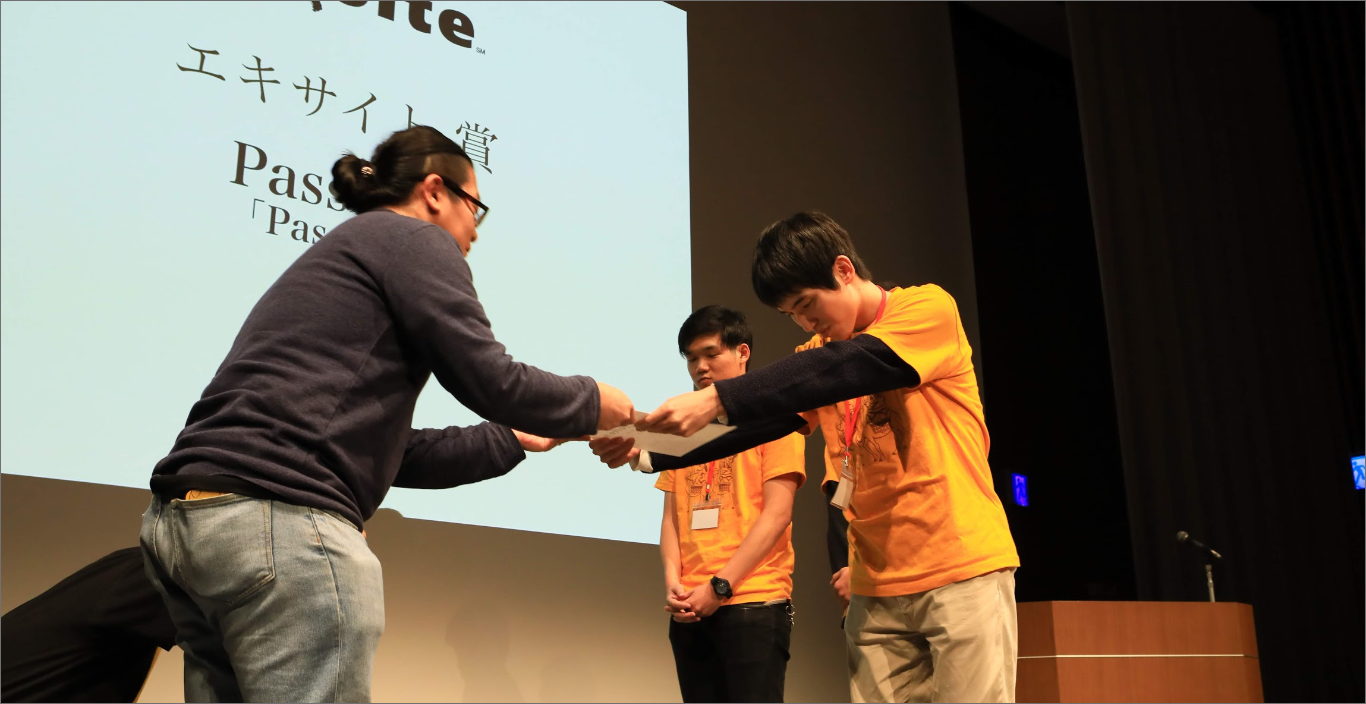
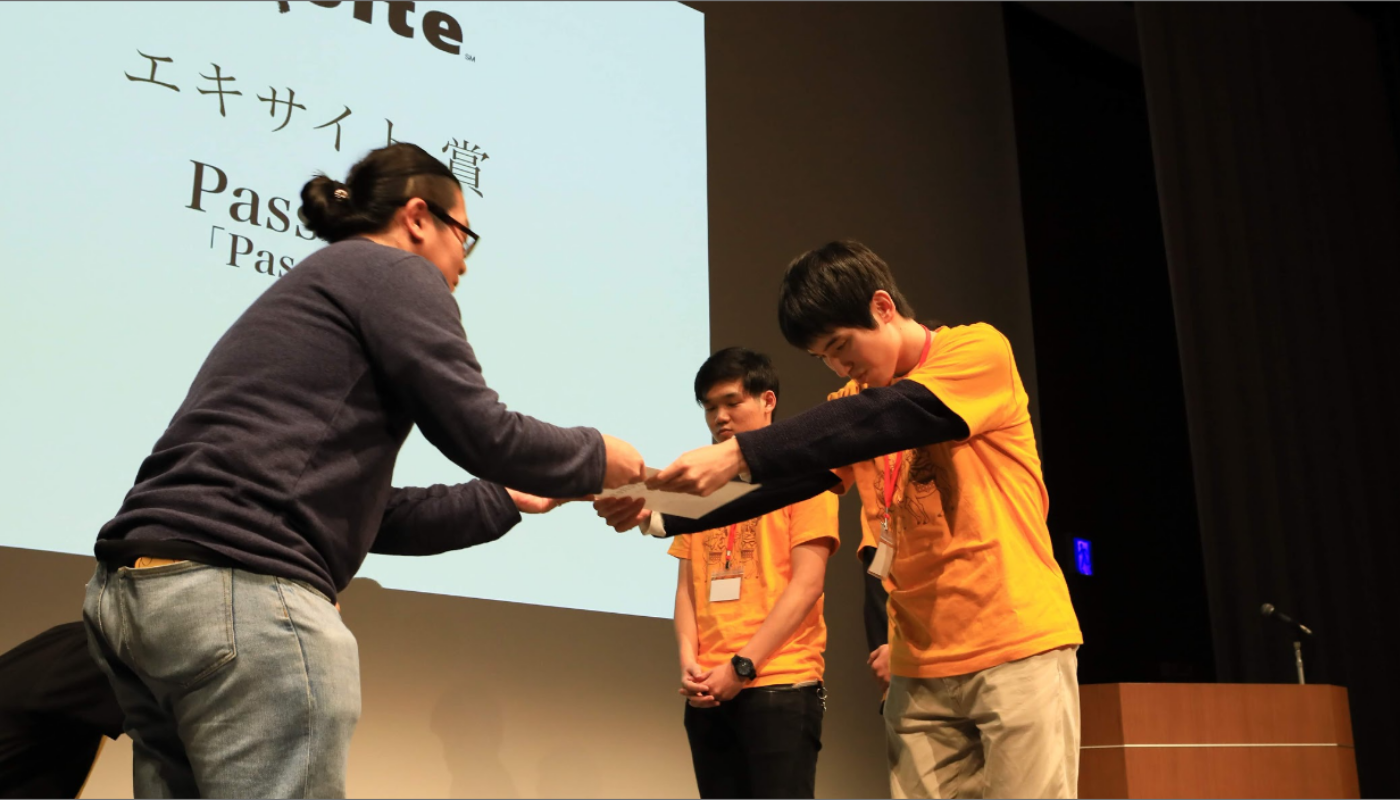
画像のアスペクト比を固定

diff --git a/src/pages/index.tsx b/src/pages/index.tsx
@@ -2,7 +2,8 @@ import { NextPage } from 'next';
 import TopStyle from '~/styles/Top.module.scss';
 import Layout from '~/layouts/index';
 import LinkCard from '~/components/LinkCard';
-import Image from 'next/image';
+import CustomImage from '~/components/CustomImage';
+import CustomSpacer from '~/components/CustomSpacer';
 import Grid from '@material-ui/core/Grid';
 
 const Home: NextPage = () => {
@@ -18,11 +19,16 @@ const Home: NextPage = () => {
         <LinkCard href="/hobby" title="Hobby" description="個人的な趣味" />
         <LinkCard href="https://github.com/Alesion30" title="GitHub Account" description="Githubのアカウントはこちら" />
       </Grid>
-      <div style={{ marginTop: 50, marginBottom: 100 }}>
-        <Grid container direction="row" justify="center" alignItems="center">
-          <img src="/images/challecara.png" title="Contemplative Reptile" width={700} height={400} />
-        </Grid>
-      </div>
+      <CustomSpacer height={50} />
+      <Grid
+        container
+        direction="column"
+        justify="center"
+        alignItems="center"
+      >
+        <CustomImage src="/images/challecara.png" alt="チャレキャラ2019" />
+      </Grid>
+      <CustomSpacer height={100} />
     </Layout>
   );
 };

diff --git a/src/components/CustomImage.tsx b/src/components/CustomImage.tsx
@@ -1,0 +1,22 @@
+import { FC } from 'react';
+
+interface Props {
+  src: string;
+  alt: string;
+  width?: number;
+  marginTop?: number;
+  marginBottom?: number;
+}
+
+const CustomImage: FC<Props> = ({ src, alt, width, marginTop, marginBottom }) => {
+  const _width = width ?? '100%';
+  const _marginTop = marginTop ?? 0;
+  const _marginBottom = marginBottom ?? 0;
+  return (
+    <div style={{ width: _width, marginTop: _marginTop, marginBottom: _marginBottom }}>
+      <img src={src} alt={alt} style={{ width: '100%', height: 'auto' }} />
+    </div>
+  );
+};
+
+export default CustomImage;

diff --git a/src/components/CustomSpacer.tsx b/src/components/CustomSpacer.tsx
@@ -1,0 +1,11 @@
+import { FC } from 'react';
+
+interface Props {
+  height: number;
+}
+
+const CustomSpacer: FC<Props> = ({ height }) => {
+  return <div style={{ height }} />;
+};
+
+export default CustomSpacer;
